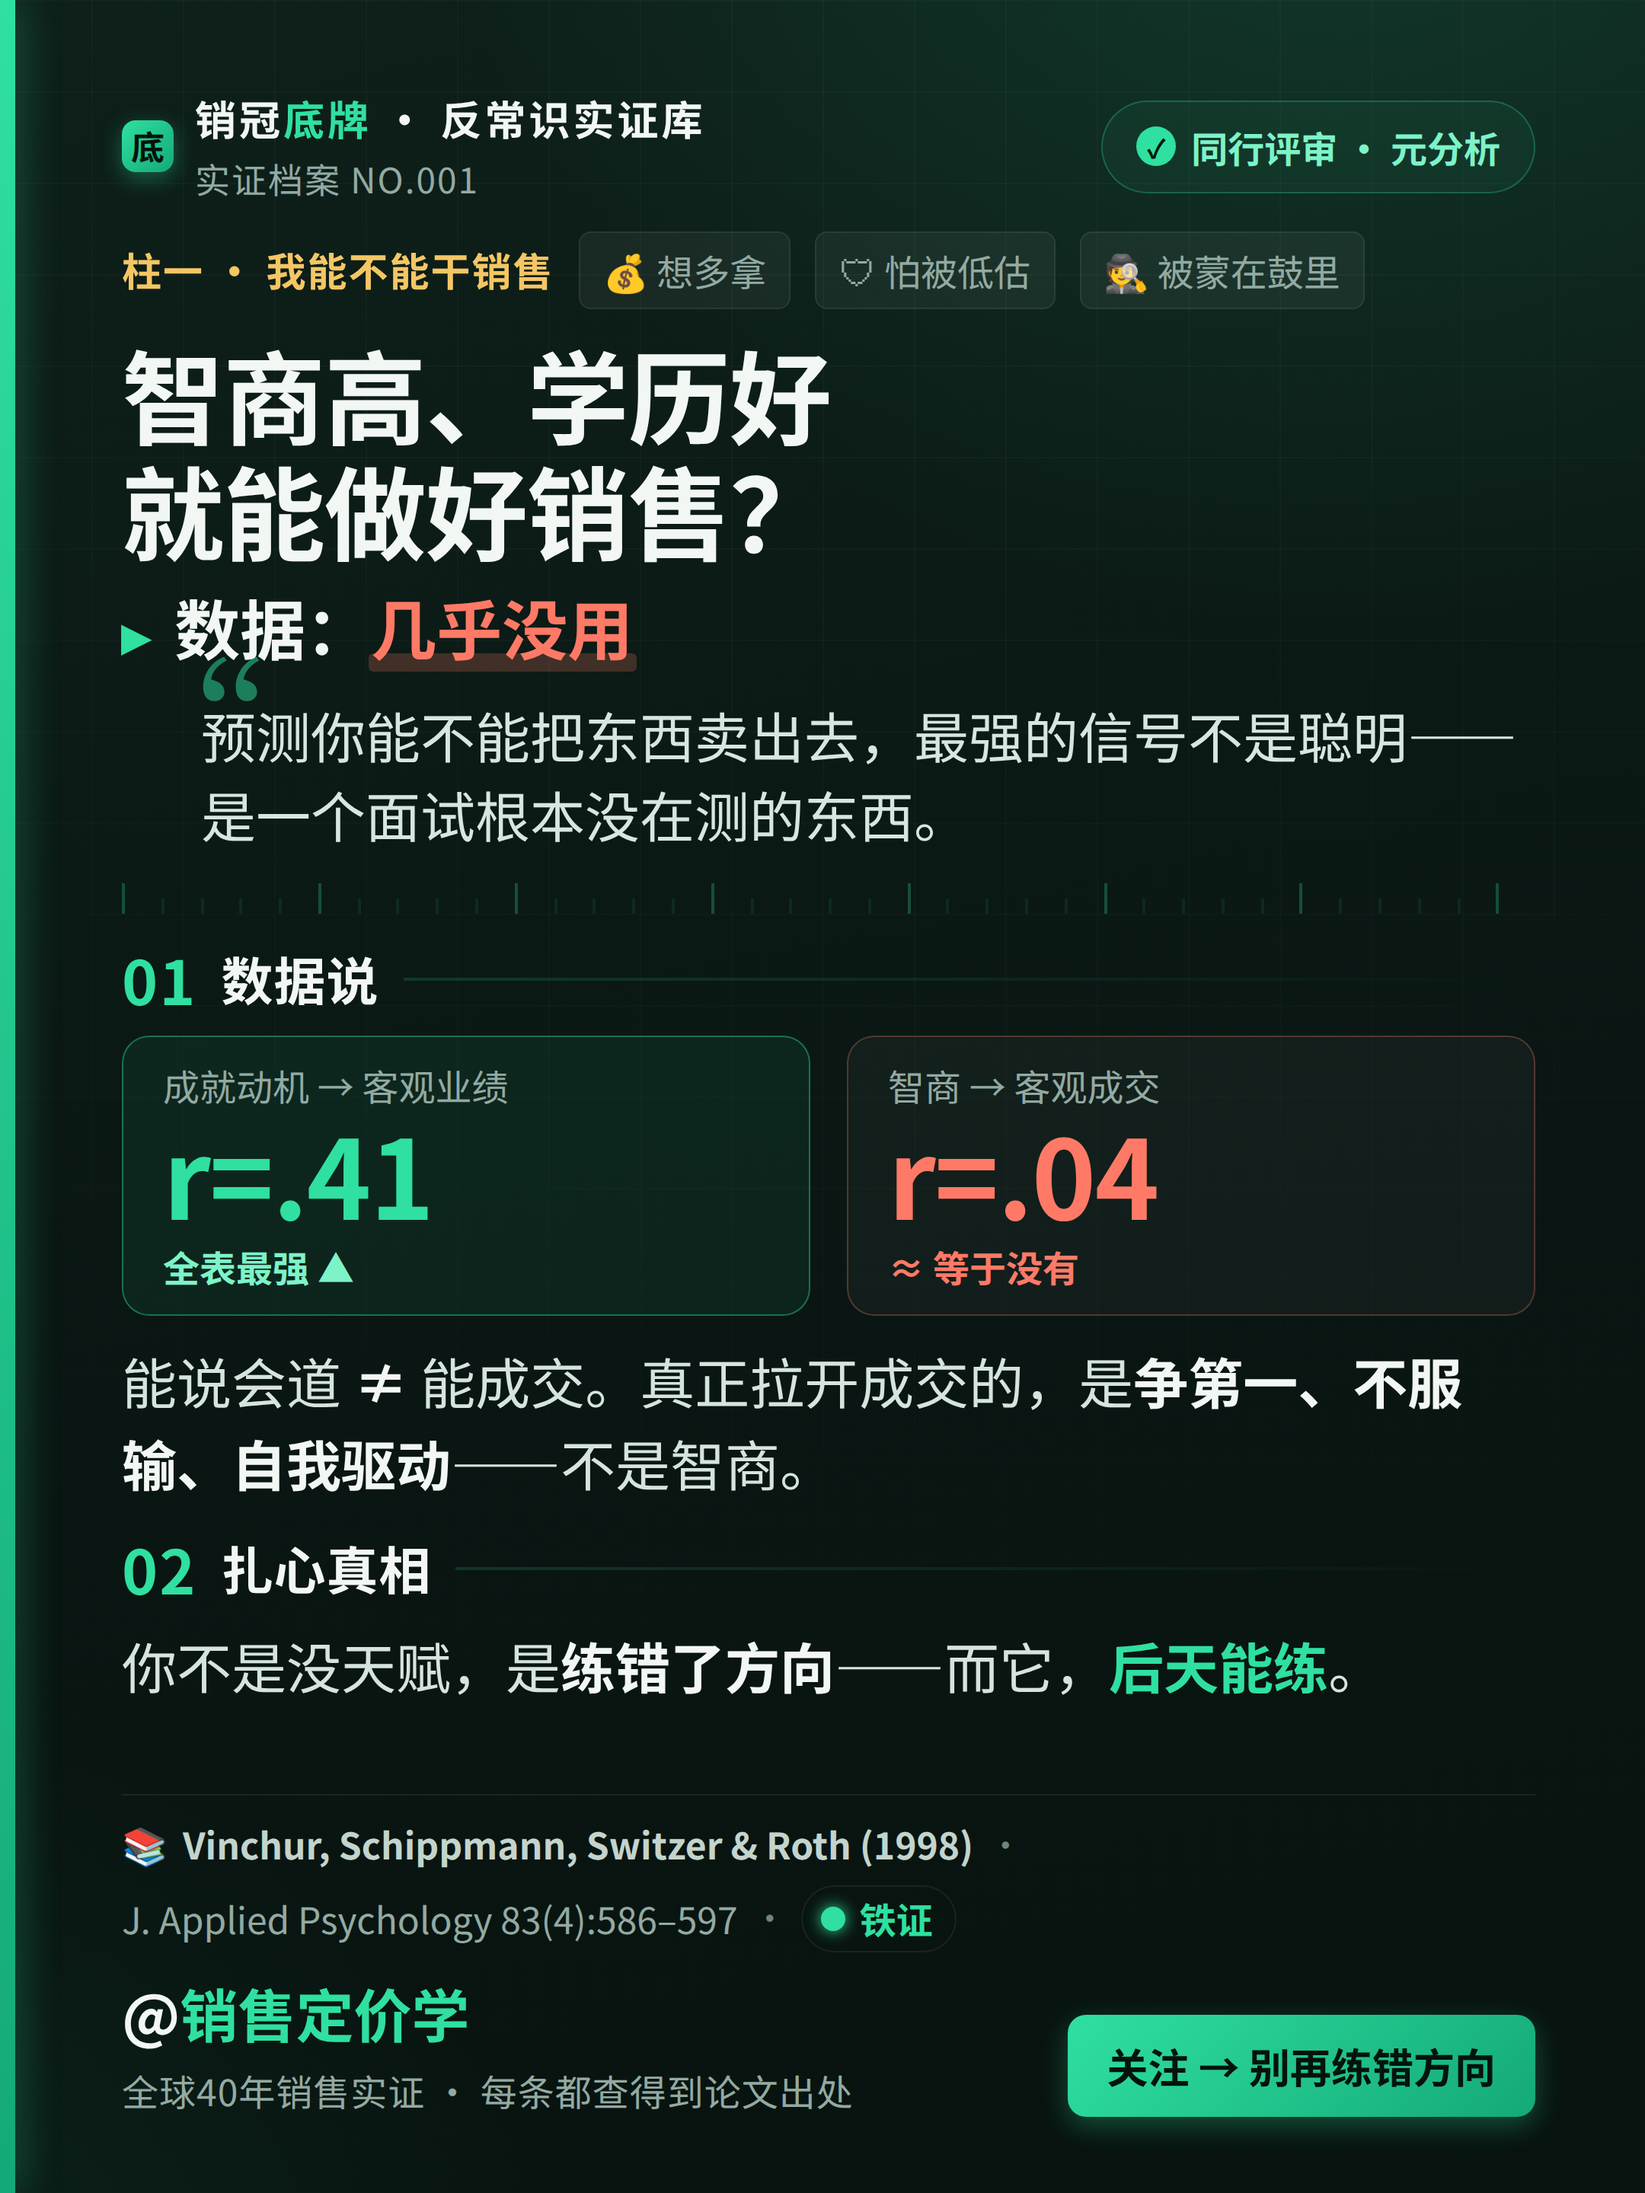
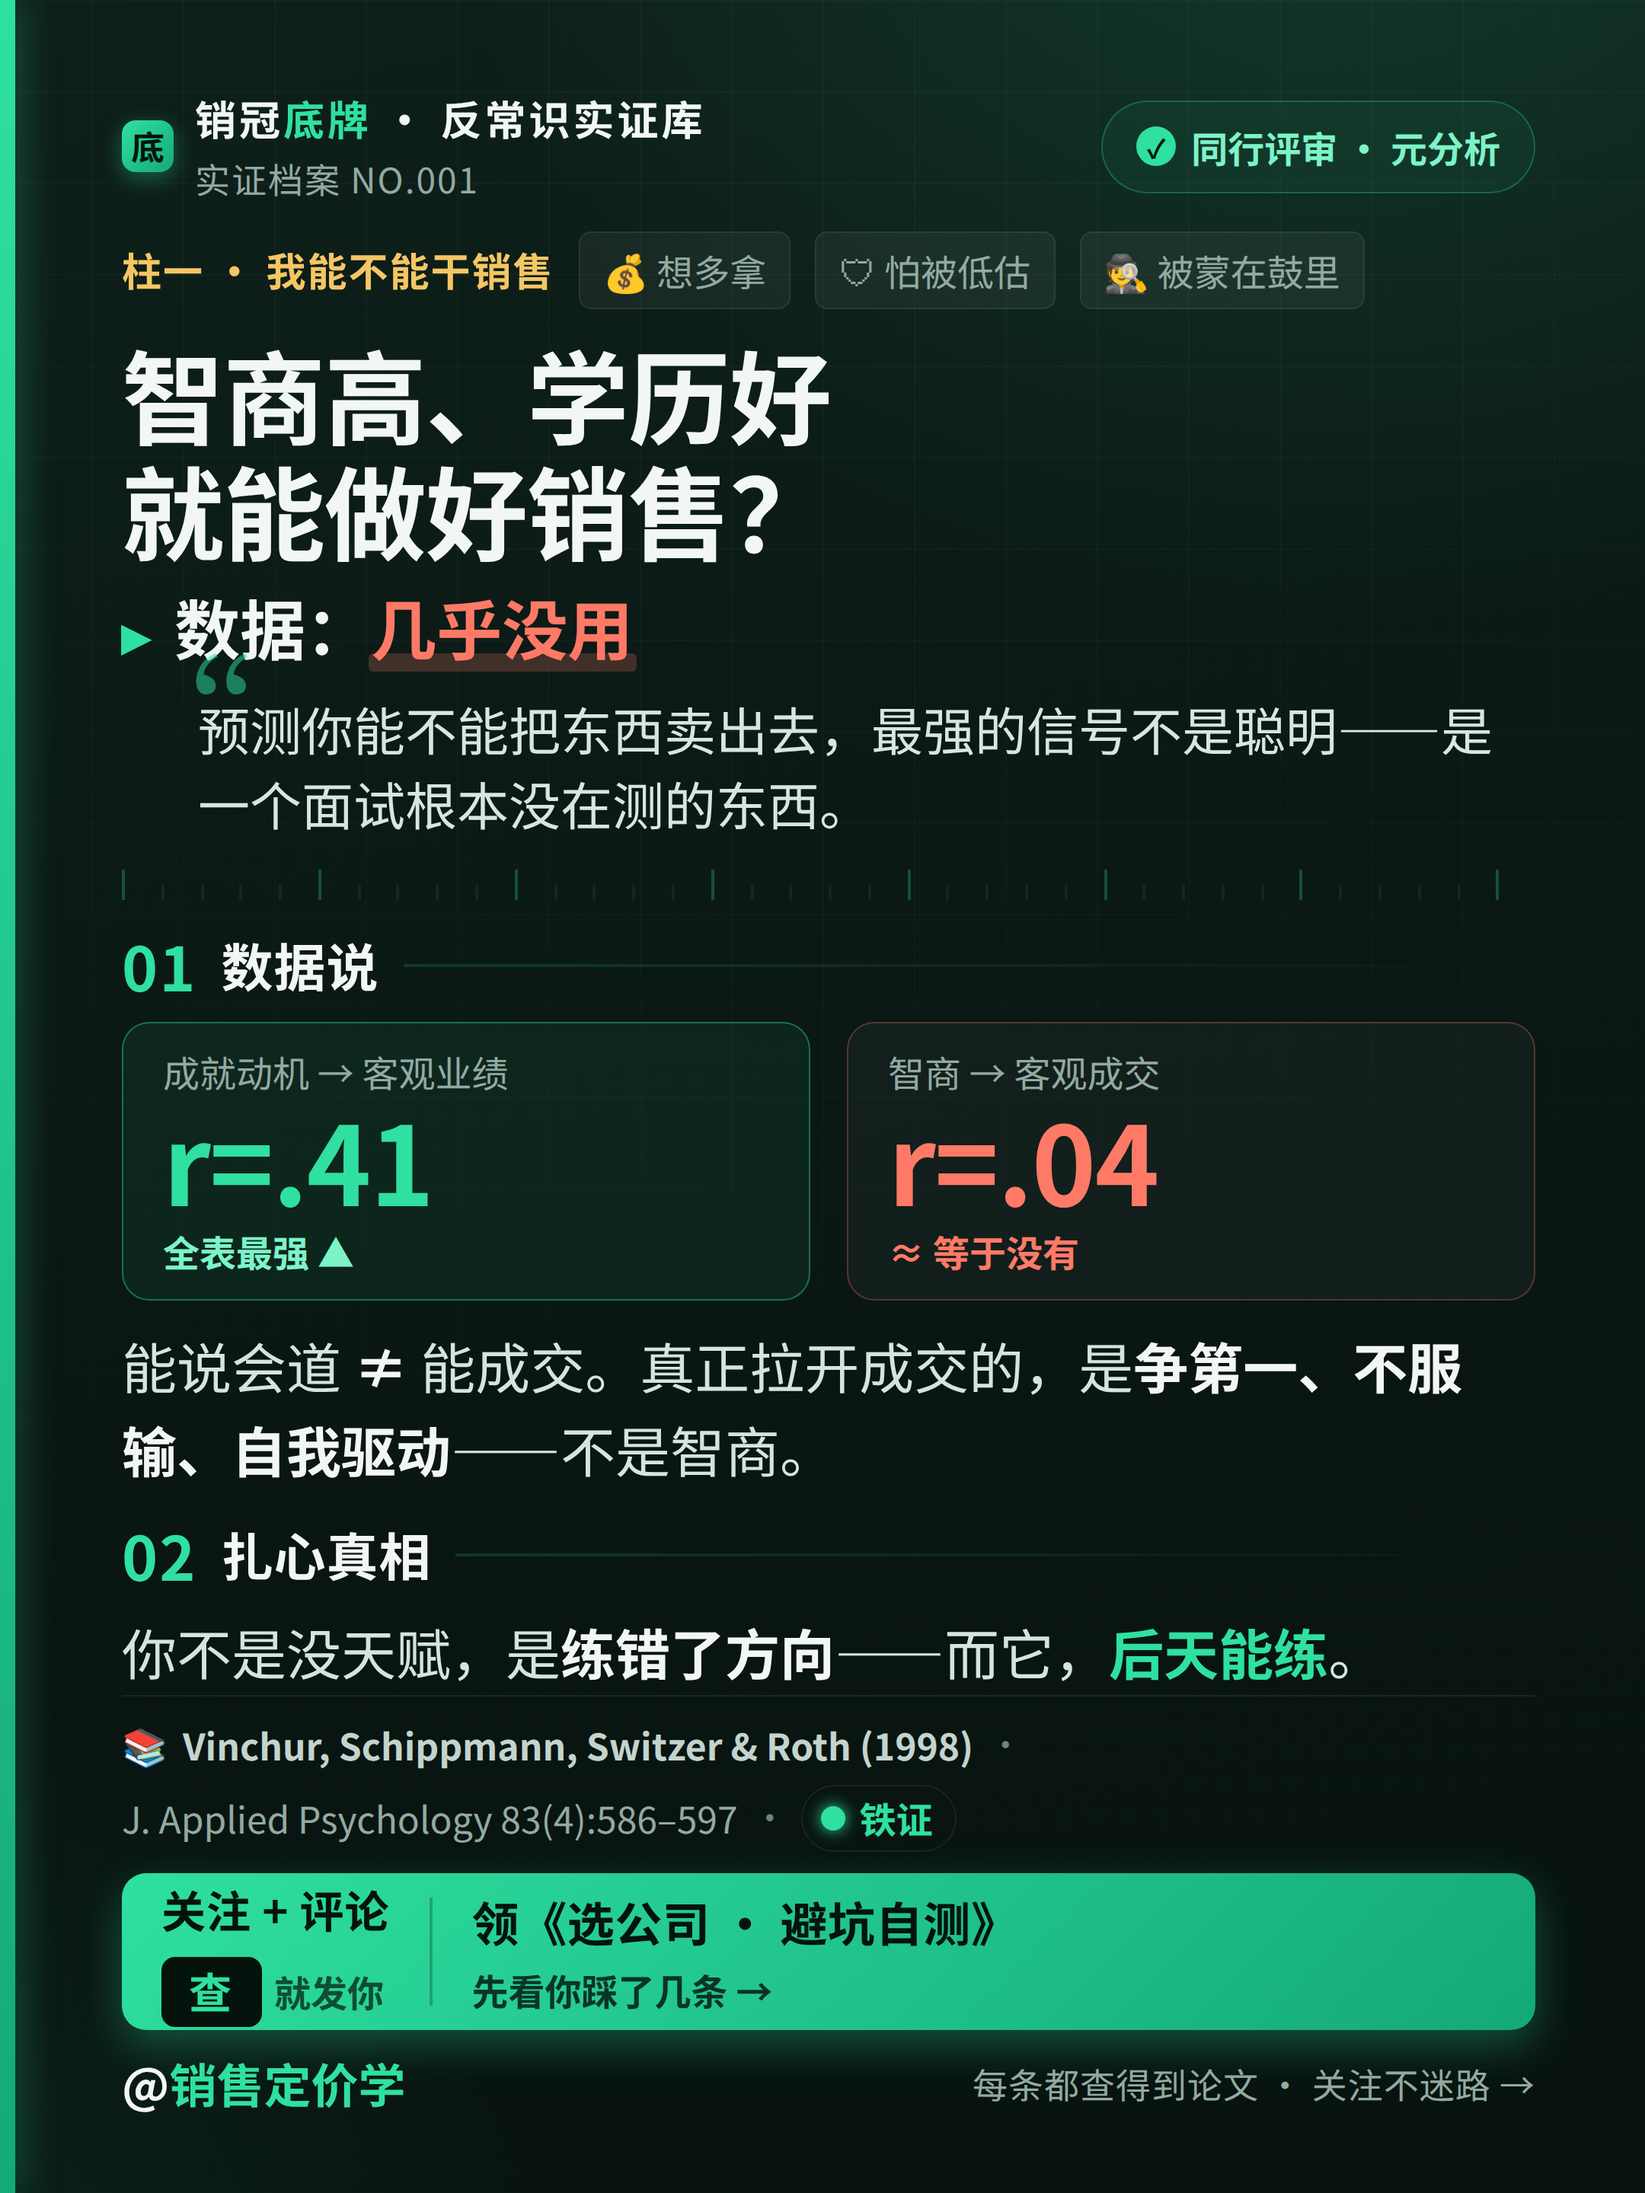
全库通用强钩子：对标原样片CTA盒位置（底栏倒数第二层）
- H5钩子：关注+评论『查』→ 领《选公司·避坑自测》· 先看你踩了几条
- 填色强调盒，左=动作(关注+评论+暗色查chip) 右=奖励+子标题，与原样片同构
- 压缩顶部引用/间距为钩子盒腾位，6套配色×两卡均适配不溢出
- 底栏简化为 @handle + 关注不迷路

diff --git a/cards/cards.html b/cards/cards.html
@@ -87,9 +87,9 @@
   .hl-under::after{content:"";position:absolute;left:-2px;right:-2px;bottom:2px;height:12px;
     background:rgba(var(--rev-rgb),.22);z-index:-1;border-radius:3px;}
 
-  .hook{position:relative;margin-top:16px;padding:2px 0 2px 52px;
-    font-size:36px;line-height:1.46;color:#D8E6E0;font-weight:500;}
-  .hook .mark{position:absolute;left:-6px;top:-32px;font-size:104px;line-height:1;
+  .hook{position:relative;margin-top:14px;padding:2px 0 2px 50px;
+    font-size:34px;line-height:1.44;color:#D8E6E0;font-weight:500;}
+  .hook .mark{position:absolute;left:-6px;top:-30px;font-size:96px;line-height:1;
     color:var(--acc);opacity:.5;font-family:Georgia,"Noto Serif CJK SC",serif;}
 
   .ruler{display:flex;align-items:flex-end;gap:0;height:20px;margin:16px 0 2px;opacity:.55;}
@@ -133,13 +133,27 @@
   .grade.y{color:#F4C664;} .grade.y .gdot{background:#F4C664;}
   .grade.o{color:#FF9A52;} .grade.o .gdot{background:#FF9A52;}
 
-  .foot{display:flex;justify-content:space-between;align-items:flex-end;margin-top:12px;}
-  .foot .handle{font-size:38px;font-weight:900;color:var(--cream);}
+  /* ====== 通用强钩子条（对标原样片的黄色CTA盒，放倒数第二层）====== */
+  .convert{display:flex;align-items:stretch;margin-top:14px;border-radius:16px;overflow:hidden;
+    background:linear-gradient(135deg,var(--acc),var(--acc-deep));color:#04140d;
+    box-shadow:0 10px 28px rgba(var(--acc-rgb),.30);}
+  .convert .left{display:flex;flex-direction:column;justify-content:center;gap:8px;
+    padding:16px 26px;white-space:nowrap;}
+  .convert .left .act{font-size:29px;font-weight:900;letter-spacing:.5px;}
+  .convert .left .chip{display:inline-flex;align-items:center;gap:8px;margin-top:2px;}
+  .convert .left .chip b{background:#04140d;color:var(--acc);font-weight:900;font-size:28px;
+    padding:3px 18px;border-radius:9px;letter-spacing:2px;}
+  .convert .left .chip span{font-size:24px;font-weight:800;opacity:.7;}
+  .convert .div{width:2px;background:rgba(4,20,13,.25);margin:16px 0;}
+  .convert .right{flex:1;display:flex;flex-direction:column;justify-content:center;gap:5px;
+    padding:14px 26px;}
+  .convert .right .r1{font-size:31px;font-weight:900;letter-spacing:.3px;}
+  .convert .right .r2{font-size:24px;font-weight:800;opacity:.82;}
+
+  .foot{display:flex;justify-content:space-between;align-items:center;margin-top:12px;}
+  .foot .handle{font-size:31px;font-weight:900;color:var(--cream);}
   .foot .handle b{color:var(--acc);}
-  .foot .tagline{font-size:24px;color:var(--dim);margin-top:6px;letter-spacing:.5px;}
-  .foot .cta{font-size:27px;font-weight:800;color:#04140d;
-    background:linear-gradient(135deg,var(--acc),var(--acc-deep));
-    padding:14px 26px;border-radius:12px;box-shadow:0 6px 18px rgba(var(--acc-rgb),.3);}
+  .foot .note{font-size:23px;color:var(--dim);letter-spacing:.5px;}
 
   .uchart{width:100%;height:158px;margin:2px 0 14px;}
   .u-axis{stroke:rgba(255,255,255,.14);stroke-width:2;}
@@ -250,10 +264,20 @@ function render(c){
       <span class="sep">·</span><span>${c.citeJour}</span>
       <span class="sep">·</span><span class="grade ${c.gradeLevel}"><i class="gdot"></i>${c.gradeText}</span>
     </div>
+    <div class="convert">
+      <div class="left">
+        <div class="act">关注 + 评论</div>
+        <div class="chip"><b>查</b><span>就发你</span></div>
+      </div>
+      <div class="div"></div>
+      <div class="right">
+        <div class="r1">领《选公司 · 避坑自测》</div>
+        <div class="r2">先看你踩了几条 →</div>
+      </div>
+    </div>
     <div class="foot">
-      <div><div class="handle">@<b>销售定价学</b></div>
-        <div class="tagline">全球40年销售实证 · 每条都查得到论文出处</div></div>
-      <div class="cta">关注 → 别再练错方向</div>
+      <div class="handle">@<b>销售定价学</b></div>
+      <div class="note">每条都查得到论文 · 关注不迷路 →</div>
     </div>
   </div>`;
 }
